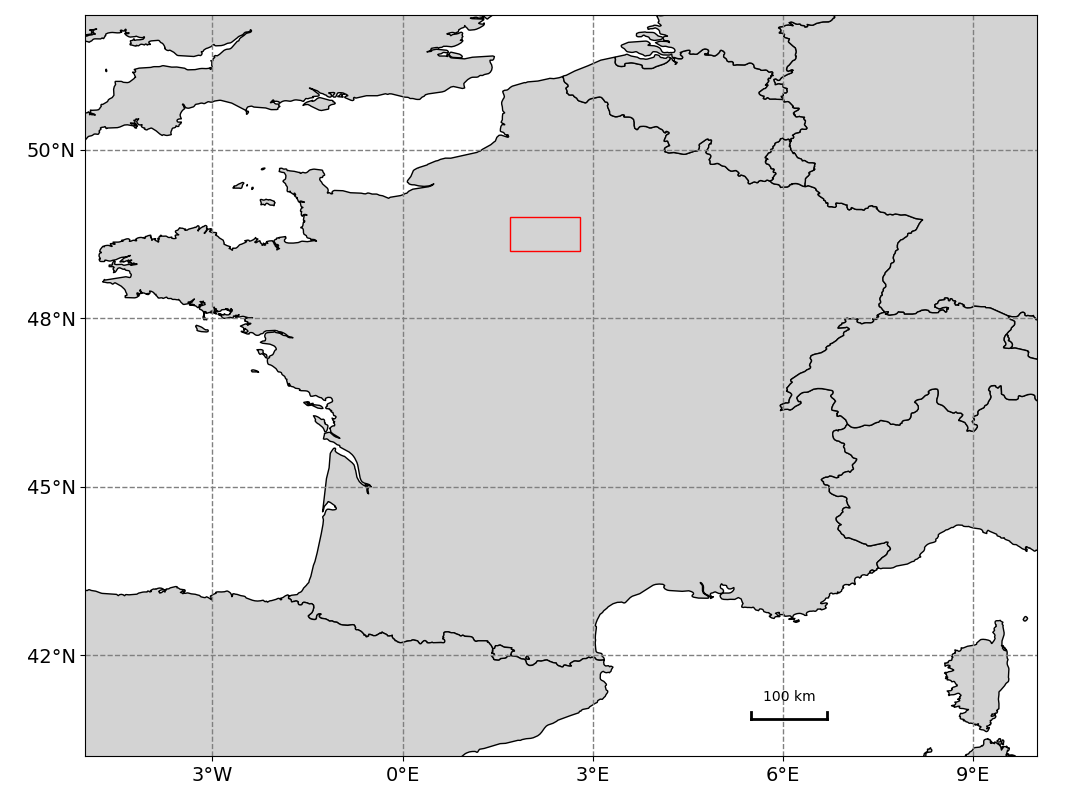
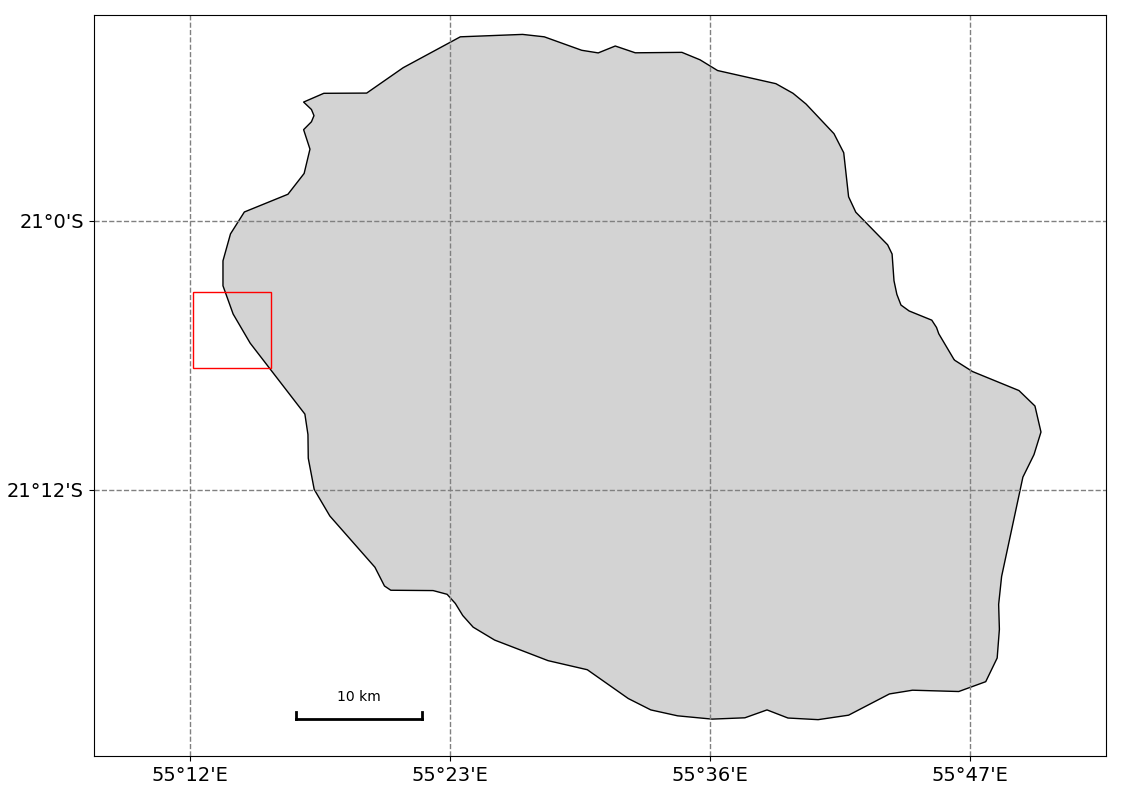
change locator

diff --git a/word_map.py b/word_map.py
@@ -2,11 +2,18 @@
 """
 @author: Manchun LEI
 """
+'''
+Modification 2025-06-16
+A New flexible way to display locator
+change the use of MaxNLocator (use defined nbins), 
+use a more flexible calculation of interval value
+'''
 import geopandas as gpd
 import matplotlib.pyplot as plt
 import matplotlib.image as mpimg
 from matplotlib.patches import Rectangle
 from matplotlib.ticker import FuncFormatter, MaxNLocator
+from matplotlib.ticker import MultipleLocator
 from matplotlib.lines import Line2D
 from pyproj import Proj, transform
 from geopy.distance import geodesic
@@ -52,10 +59,13 @@ def lat_formatter_minute(value, pos=None):
     else:
         return f"{degrees:d}°{minutes:d}'N"
 
-# def calculate_figure_dimensions(area_width, area_height, figure_height, margin_ratio=0.15):
-#     aspect_ratio = area_width / area_height
-#     figure_width = figure_height * aspect_ratio * (1 + margin_ratio)
-#     return figure_width
+def get_locator_interval(span, target_ticks=5):
+    step = span / target_ticks
+    # usual interval set
+    for interval in [0.01, 0.02, 0.05, 0.1, 0.2, 0.5, 1]:
+        if step <= interval:
+            return interval
+    return 1  # fallback
 
 def add_scalebar_x(ax, pos, area, scalebar_length_km, color="white",fontsize=10):
     x_pos,y_pos = pos
@@ -113,10 +123,20 @@ def word_map_lonlat(area, sub_area=None, dstfile=None, figure_height=8, fontsize
 
     ax.set_xlim(lon0, lon1)
     ax.set_ylim(lat0, lat1)
-    ax.xaxis.set_major_formatter(FuncFormatter(lon_formatter))
-    ax.yaxis.set_major_formatter(FuncFormatter(lat_formatter))
-    ax.xaxis.set_major_locator(MaxNLocator(nbins=5))
-    ax.yaxis.set_major_locator(MaxNLocator(nbins=5))
+    ax.xaxis.set_major_formatter(FuncFormatter(lon_formatter_minute))
+    ax.yaxis.set_major_formatter(FuncFormatter(lat_formatter_minute))
+    '''
+    Modification 2025-06-16
+    A New flexible way to display locator
+    change the use of MaxNLocator (use defined nbins), 
+    use a more flexible calculation of interval value
+    '''
+    # ax.xaxis.set_major_locator(MaxNLocator(nbins=5))
+    # ax.yaxis.set_major_locator(MaxNLocator(nbins=5))
+    lon_interval = get_locator_interval(lon1 - lon0)
+    lat_interval = get_locator_interval(lat1 - lat0)
+    ax.xaxis.set_major_locator(MultipleLocator(lon_interval))
+    ax.yaxis.set_major_locator(MultipleLocator(lat_interval))
     ax.tick_params(axis='both', labelsize=fontsize)
     # ax.set_xlabel("Longitude")
     # ax.set_ylabel("Latitude")
@@ -141,13 +161,23 @@ def image_with_lonlat(srcfile,area,dstfile=None,figure_height=8,fontsize=12):
     
     ax.xaxis.set_major_formatter(FuncFormatter(lon_formatter_minute))
     ax.yaxis.set_major_formatter(FuncFormatter(lat_formatter_minute))
-    ax.xaxis.set_major_locator(MaxNLocator(nbins=4))
-    ax.yaxis.set_major_locator(MaxNLocator(nbins=4))
+    '''
+    Modification 2025-06-16
+    A New flexible way to display locator
+    change the use of MaxNLocator (use defined nbins), 
+    use a more flexible calculation of interval value
+    '''
+    # ax.xaxis.set_major_locator(MaxNLocator(nbins=4))
+    # ax.yaxis.set_major_locator(MaxNLocator(nbins=4))
     ax.set_xlim(lon0, lon1)
     ax.set_ylim(lat0, lat1)
     ax.grid(color="gray", linestyle="--", linewidth=1)
     # ax.set_xlabel("Longitude")
     # ax.set_ylabel("Latitude")
+    lon_interval = get_locator_interval(lon1 - lon0)
+    lat_interval = get_locator_interval(lat1 - lat0)
+    ax.xaxis.set_major_locator(MultipleLocator(lon_interval))
+    ax.yaxis.set_major_locator(MultipleLocator(lat_interval))
     ax.tick_params(axis='both', labelsize=fontsize)
     plt.tight_layout()
     if dstfile:

diff --git a/demo.py b/demo.py
@@ -4,11 +4,14 @@
 """
 from word_map import *
 
-area = [-5, 41, 10, 52] # [lon0,lat0,lon1,lat1]
-sub_area = [1.7, 48.5, 2.8, 49] # or = None 
+# area = [-5, 41, 10, 52] # [lon0,lat0,lon1,lat1], lon0<lon1, lat0<lat1
+# sub_area = [1.7, 48.5, 2.8, 49] # or = None 
+area = [55.126, -21.398, 55.9046, -20.8470]
+sub_area = [55.2021, -21.1096, 55.2620, -21.053]
+
 fig,ax = word_map_lonlat(area, sub_area=sub_area, dstfile=None, figure_height=8, fontsize=14)
-pos = (0.7,0.05) # scale bar position in the figure
-scale_bar_length_km = 100 # scale bar unit length in km
+pos = (0.2,0.05) # scale bar position in the figure
+scale_bar_length_km = 10 # scale bar unit length in km
 add_scalebar_x(ax, pos, area, scale_bar_length_km, color="black",fontsize=10)
 plt.savefig('demo.png')
 plt.show()
